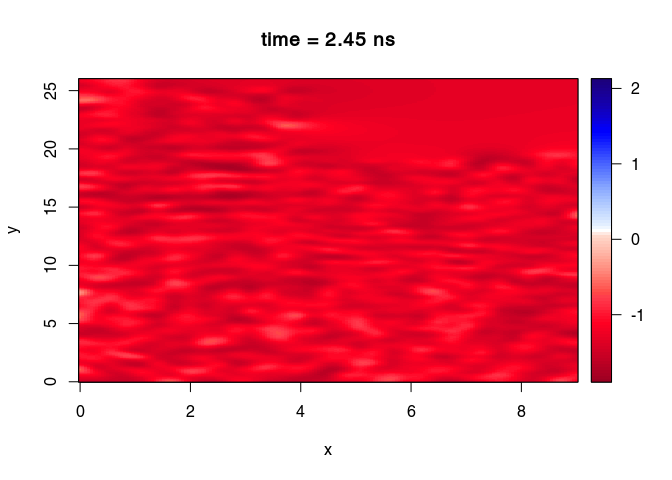
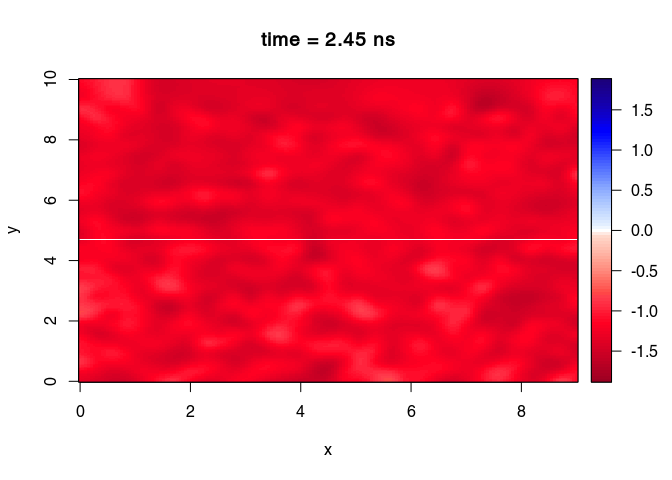
update setGridCoord explanations

diff --git a/05_RGPR_tutorial_GPR-data-time-slice-interpolation-3D.md b/05_RGPR_tutorial_GPR-data-time-slice-interpolation-3D.md
@@ -211,15 +211,16 @@ Imagine your data were collected as follows:
 -   6 y-lines at positions 0 m, 1 m, 2 m, 4 m, 6 m, and 7.6 m; the 1st line start 2 m before the other lines.
 
 ``` r
+SU_img <- SU
 xstart <- rep(0, 40)
 xstart[c(3, 5)] <- 1
-setGridCoord(SU) <- list(xlines = 1:40,
+setGridCoord(SU_img) <- list(xlines = 1:40,
                          xpos   = seq(0, by = 2, length.out = 40),
                          xstart = xstart,
                          ylines = 40 + (1:6),
                          ypos   = c(0, 1, 2, 4, 6, 7.6),
                          ystart = c(-2, 0, 0, 0, 0, 0))
-plot(SU, asp = TRUE, parFid = NULL)
+plot(SU_img, asp = TRUE, parFid = NULL)
 ```
 
 ![](05_RGPR_tutorial_GPR-data-time-slice-interpolation-3D_tp_files/figure-markdown_github/unnamed-chunk-9-1.png)
@@ -234,7 +235,8 @@ Imagine your data were collected on a 19 m x 25m grid:
 -   all the lines start either at x = 0 m or at y = 0 m
 
 ``` r
-setGridCoord(SU) <- list(xlines = 1:20,
+SU_img <- SU
+setGridCoord(SU_img) <- list(xlines = 1:20,
                          xpos = seq(0, by = 1, length.out = 20),
                          xstart = rep(0, 20),  # could be omitted
                          xlength = rep(25, 20),
@@ -243,7 +245,7 @@ setGridCoord(SU) <- list(xlines = 1:20,
                          ystart = rep(0, 26),  # could be omitted
                          ylength = rep(19, 26))
 
-plot(SU, asp = TRUE, parFid = NULL)
+plot(SU_img, asp = TRUE, parFid = NULL)
 ```
 
 ![](05_RGPR_tutorial_GPR-data-time-slice-interpolation-3D_tp_files/figure-markdown_github/unnamed-chunk-10-1.png)
@@ -258,7 +260,8 @@ xstart <- rep(0, length(SU))
 xstart[c(5, 8, 22)] <- 1
 xstart[c(1, 28, 33, 38, 44)] <- 0.4
 setGridCoord(SU) <- list(xlines = seq_along(SU),
-                         xpos   = seq(0, by = 0.2, length.out = length(SU)),
+                         xpos   = seq(0, by = 0.2,
+                                      length.out = length(SU)),
                          xstart = xstart)
 ```
 
@@ -326,9 +329,9 @@ SXY
 ```
 
     ## *** Class GPRcube ***
-    ## dim:    180 x 520 x 901
-    ## res:    0.0502793296089385 m x 0.0500963391136802 m x 0.05 ns
-    ## extent: 9 m x 26 m x 45 ns
+    ## dim:    180 x 200 x 901
+    ## res:    0.0502793296089385 m x 0.050251256281407 m x 0.05 ns
+    ## extent: 9 m x 10 m x 45 ns
     ## crs:
     ## *********************
 
